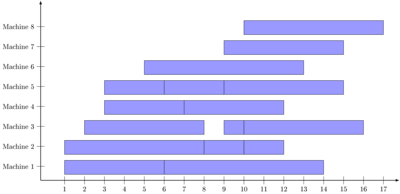
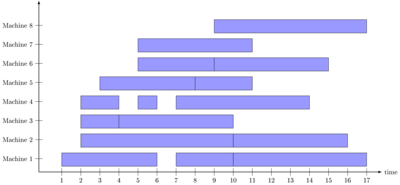
minor fixes

diff --git a/demo/scheduler.cs b/demo/scheduler.cs
@@ -67,7 +67,7 @@ public class TaskScheduler {
     for (int i = 0; i < machines.Count; i++) 
       Console.WriteLine("    \\draw(-0.4, {0}) node[left]{{Machine {1}}} -- ++ (0.4,0);", i+1+0.5, i+1); 
 
-    Console.WriteLine("  \\draw[thick,->](-0.2,0.8) -- ++({0},0);", maxTime+1); 
+    Console.WriteLine("  \\draw[thick,->](-0.2,0.8) -- ++({0},0) node[right]{{time}};", maxTime+1); 
     for (int i = 0; i < maxTime; i++) 
       Console.WriteLine("    \\draw({0}, 0.6) node[below]{{{1}}} -- ++ (0,0.4);", i+1, i+1); 
 

diff --git a/demo/taskschedule2.cs b/demo/taskschedule2.cs
@@ -12,7 +12,7 @@ class TaskSchedule {
 
     var random = new Random(); 
     var tasks = new Heap<Task>((x,y) => x.Key - y.Key); 
-    Func<int, int, Task> MakeTask = ((t1,t2) => {int x = random.Next(t1)+1; return new Task(x, x+random.Next(t2)+1);});
+    Func<int, int, Task> MakeTask = ((t1,t2) => {int x = random.Next(1,t1+1); return new Task(x, x+random.Next(1,t2+1));});
 
     for(int i = 0; i < n; i++)
       tasks.Insert(MakeTask(maxStartTime, maxRunningTime)); 

diff --git a/README.md b/README.md
@@ -10,8 +10,19 @@
 <li><a href="#orgheadline4">2.3. Heap Sort Performance</a></li>
 </ul>
 </li>
-<li><a href="#orgheadline6">3. Graphviz Output</a></li>
-<li><a href="#orgheadline7">4. Application: Task Schedule</a></li>
+<li><a href="#orgheadline8">3. Graphviz Output</a>
+<ul>
+<li><a href="#orgheadline6">3.1. Extensions</a></li>
+<li><a href="#orgheadline7">3.2. Example</a></li>
+</ul>
+</li>
+<li><a href="#orgheadline12">4. Application: Task Scheduling</a>
+<ul>
+<li><a href="#orgheadline9">4.1. Helper Classes</a></li>
+<li><a href="#orgheadline10">4.2. Example</a></li>
+<li><a href="#orgheadline11">4.3. A more complex example</a></li>
+</ul>
+</li>
 </ul>
 </div>
 </div>
@@ -196,13 +207,15 @@ Sort a Million numbers
 
     Generating 1000000 random elements...
     Sorting 1000000 random elements...
-    Insertion: 65 Removal: 769 Combined: 834
+    Insertion: 61 Removal: 765 Combined: 826
 
 Note:  Insertion is very fast while Removal is kind of slow. 
 
 Both operations run in O(log n) time, but Insertion is way more fast. Tests show that in practice Up Bubbling rarely exceeds a few levels, while Down Bubbling almost *always* needs to process the whole tree height. 
 
-# Graphviz Output<a id="orgheadline6"></a>
+# Graphviz Output<a id="orgheadline8"></a>
+
+## Extensions<a id="orgheadline6"></a>
 
     using System;
     
@@ -246,6 +259,8 @@ Both operations run in O(log n) time, but Insertion is way more fast. Tests show
       }
     }
 
+## Example<a id="orgheadline7"></a>
+
 Call extension method `PrintDot` and feed the results into [Graphviz](http://www.graphviz.org/): 
 
     class HeapTree {
@@ -269,7 +284,9 @@ Call extension method `PrintDot` and feed the results into [Graphviz](http://www
 
 ![img](images/heap.png)
 
-# Application: Task Schedule<a id="orgheadline7"></a>
+# Application: Task Scheduling<a id="orgheadline12"></a>
+
+## Helper Classes<a id="orgheadline9"></a>
 
     using System;
     using System.Collections.Generic; 
@@ -340,7 +357,7 @@ Call extension method `PrintDot` and feed the results into [Graphviz](http://www
         for (int i = 0; i < machines.Count; i++) 
           Console.WriteLine("    \\draw(-0.4, {0}) node[left]{{Machine {1}}} -- ++ (0.4,0);", i+1+0.5, i+1); 
     
-        Console.WriteLine("  \\draw[thick,->](-0.2,0.8) -- ++({0},0);", maxTime+1); 
+        Console.WriteLine("  \\draw[thick,->](-0.2,0.8) -- ++({0},0) node[right]{{time}};", maxTime+1); 
         for (int i = 0; i < maxTime; i++) 
           Console.WriteLine("    \\draw({0}, 0.6) node[below]{{{1}}} -- ++ (0,0.4);", i+1, i+1); 
     
@@ -348,6 +365,8 @@ Call extension method `PrintDot` and feed the results into [Graphviz](http://www
       }
     
     }
+
+## Example<a id="orgheadline10"></a>
 
     using System;
     using System.Collections.Generic; 
@@ -378,7 +397,7 @@ Call extension method `PrintDot` and feed the results into [Graphviz](http://www
 
 ![img](images/schedule.png)
 
-Another example: 
+## A more complex example<a id="orgheadline11"></a>
 
     using System;
     using System.Collections.Generic; 
@@ -394,7 +413,7 @@ Another example:
     
         var random = new Random(); 
         var tasks = new Heap<Task>((x,y) => x.Key - y.Key); 
-        Func<int, int, Task> MakeTask = ((t1,t2) => {int x = random.Next(t1)+1; return new Task(x, x+random.Next(t2)+1);});
+        Func<int, int, Task> MakeTask = ((t1,t2) => {int x = random.Next(1,t1+1); return new Task(x, x+random.Next(1,t2+1));});
     
         for(int i = 0; i < n; i++)
           tasks.Insert(MakeTask(maxStartTime, maxRunningTime)); 
